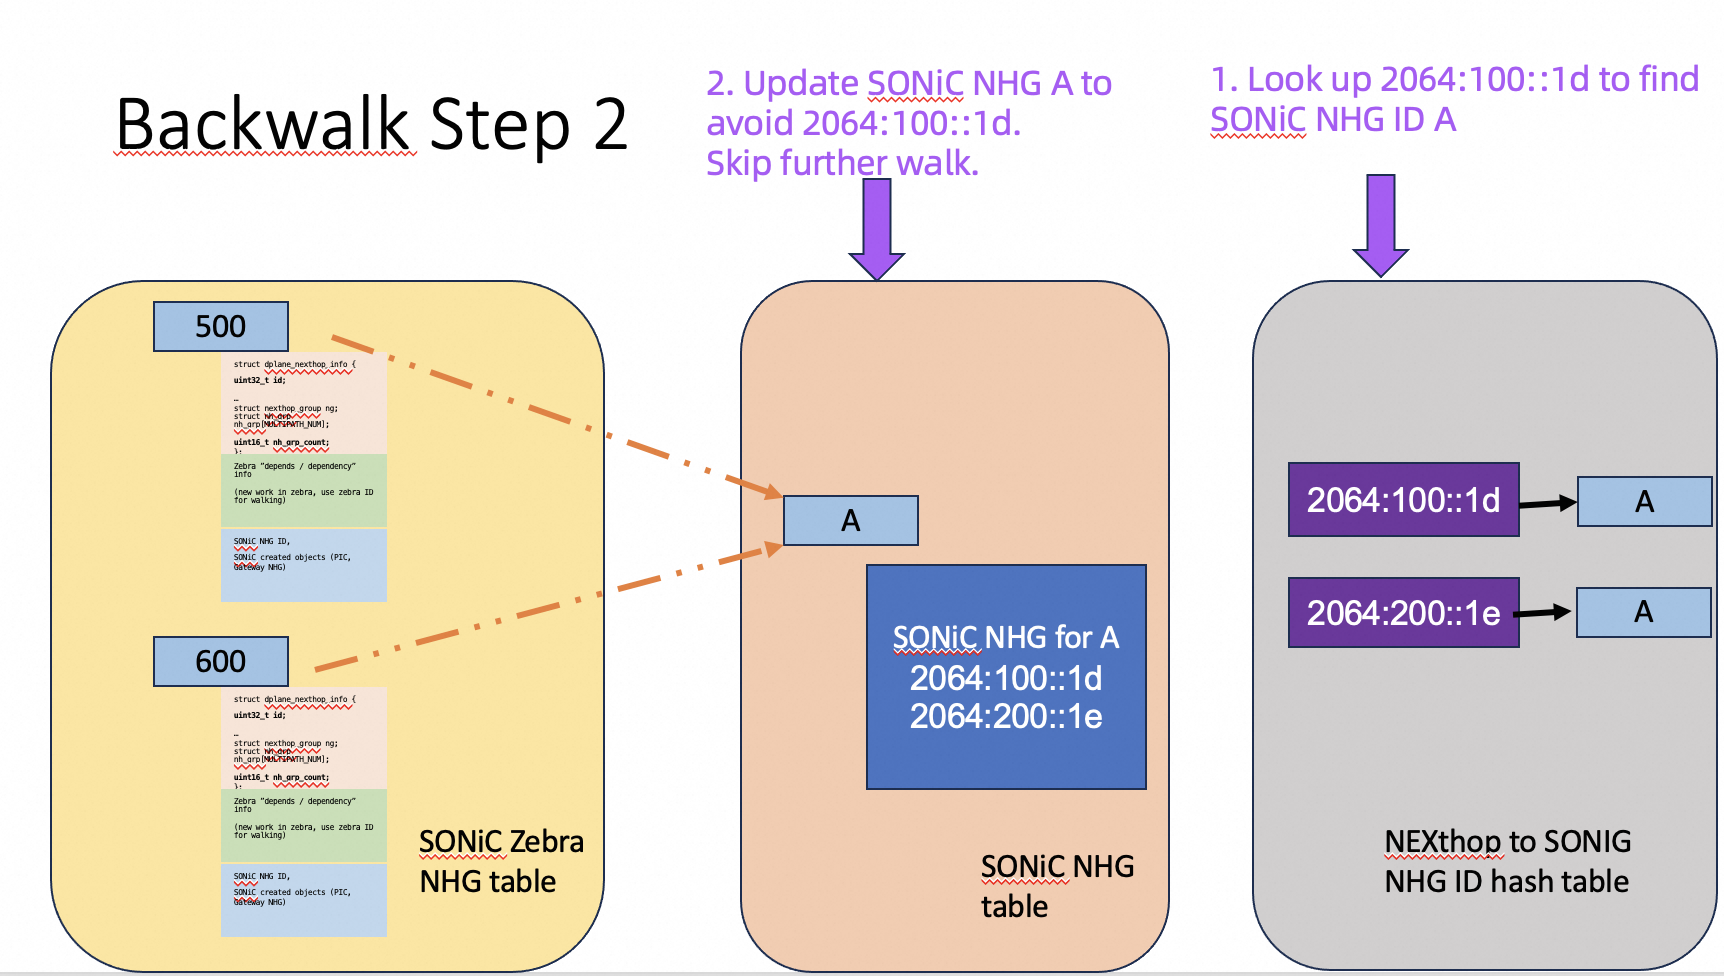
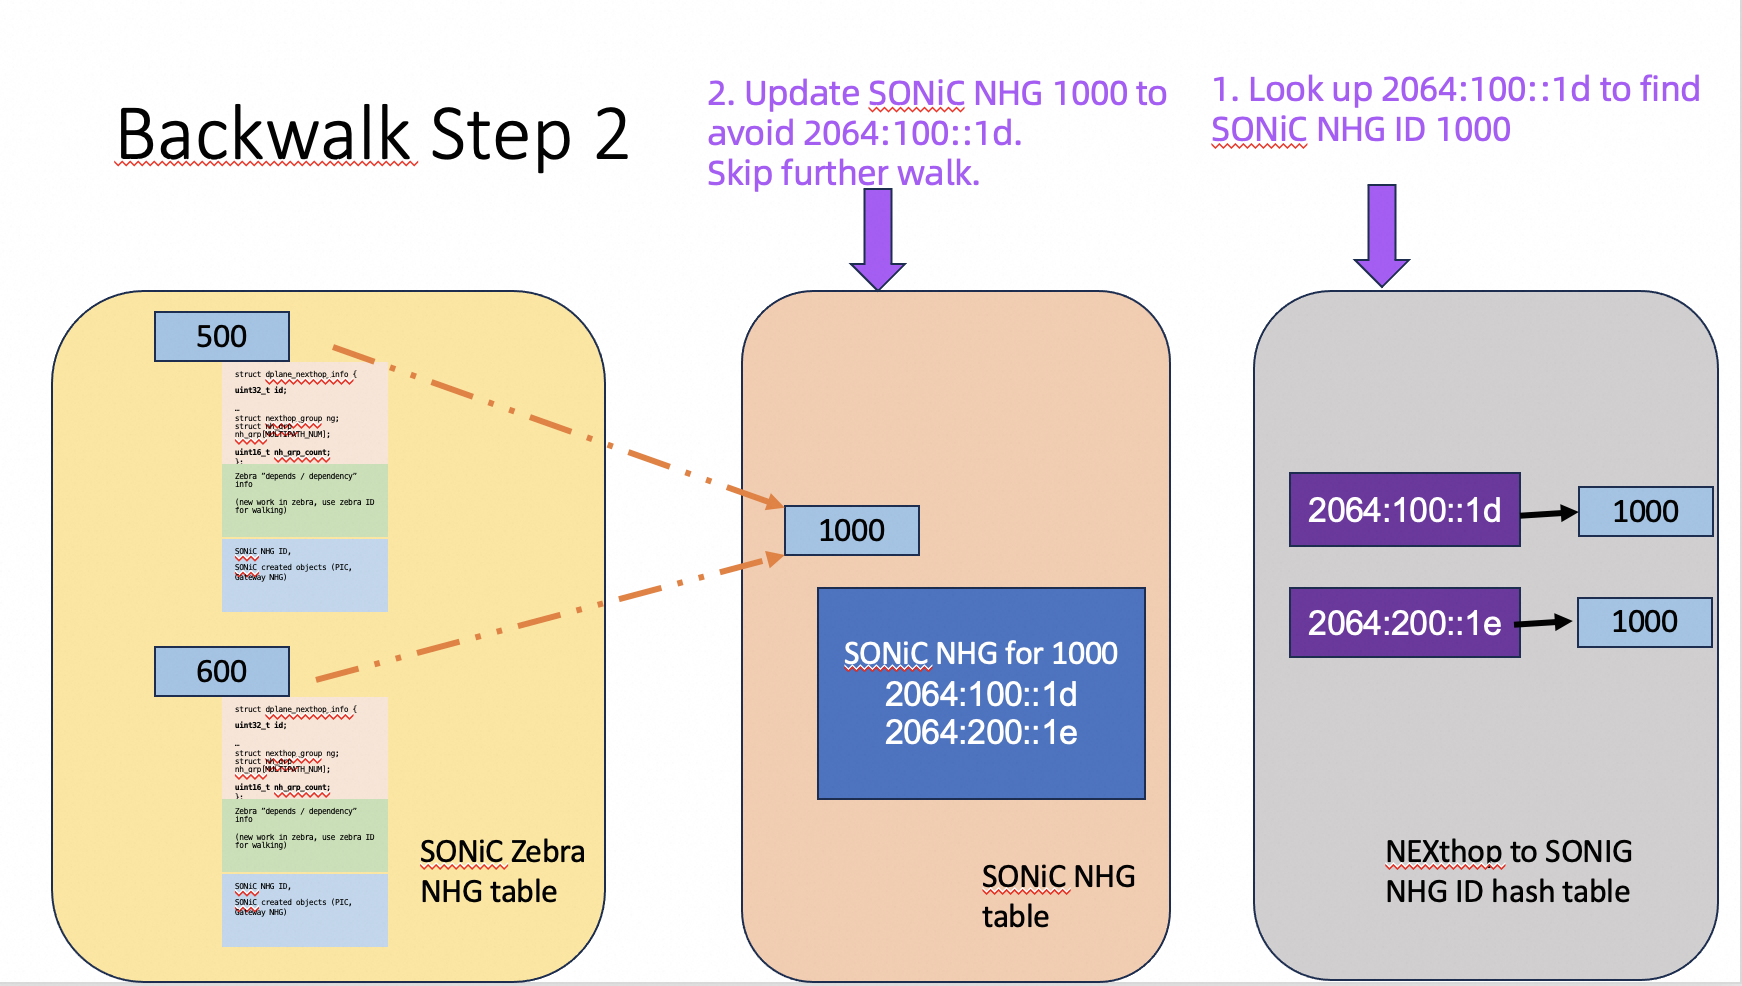
Update ribfib HLD based on comments

diff --git a/doc/ribfib/ribfib.md b/doc/ribfib/ribfib.md
@@ -3,43 +3,48 @@
 # Table of Contents <!-- omit in toc -->
 - [Revision](#revision)
 - [Definition/Abbreviation](#definitionabbreviation)
-    - [Table 1: Abbreviations](#table-1-abbreviations)
 - [Problem Statements](#problem-statements)
   - [Summary of Problems to be solved](#summary-of-problems-to-be-solved)
     - [Enable NHG ID handling for improving route convergence](#enable-nhg-id-handling-for-improving-route-convergence)
     - [Introduce PIC (Prefix independent Convergence) for improving route convergence](#introduce-pic-prefix-independent-convergence-for-improving-route-convergence)
     - [Handling SRv6 VPN forwarding chain different from Linux](#handling-srv6-vpn-forwarding-chain-different-from-linux)
+  - [Current Thoughts](#current-thoughts)
+  - [Topics not in the scope](#topics-not-in-the-scope)
 - [Introduction of RIB / FIB in SONiC](#introduction-of-rib--fib-in-sonic)
+  - [new FIB's functionalities](#new-fibs-functionalities)
   - [FIB's location](#fibs-location)
 - [FIB High Level Design](#fib-high-level-design)
+  - [A global knob to enable/disable FIB](#a-global-knob-to-enabledisable-fib)
   - [Process Model](#process-model)
-  - [NHG Block](#nhg-block)
-    - [Tables in NHG Block](#tables-in-nhg-block)
+  - [FIB Block](#fib-block)
+    - [Tables in FIB Block](#tables-in-fib-block)
     - [SONiC zebra NHG table](#sonic-zebra-nhg-table)
       - [NEXTHOP KEY to Zebra NHG ID mapping](#nexthop-key-to-zebra-nhg-id-mapping)
     - [SONiC NHG table](#sonic-nhg-table)
-      - [NEXTHOP-\>SONIC NHG ID  table](#nexthop-sonic-nhg-id-table)
+      - [NEXTHOP-\>SONIC NHG ID table](#nexthop-sonic-nhg-idtable)
     - [SONIC NHG ID Manager](#sonic-nhg-id-manager)
   - [NHG forwarding chain graph](#nhg-forwarding-chain-graph)
-  - [Resolved NHG and Unresolved NHG](#resolved-nhg-and-unresolved-nhg)
+  - [Resolved NHG and Original NHG](#resolved-nhg-and-original-nhg)
   - [Route handling](#route-handling)
 - [FIB work flows](#fib-work-flows)
   - [Handle Global table routing information](#handle-global-table-routing-information)
   - [Handle SRv6 VPN routing information](#handle-srv6-vpn-routing-information)
-- [Route Congernce Handling](#route-congernce-handling)
+- [Route Convergence Handling](#route-convergence-handling)
+  - [Resolve through and Resolve via](#resolve-through-and-resolve-via)
   - [NHT Trigger](#nht-trigger)
   - [Backwalk infra](#backwalk-infra)
-  - [Walk Context](#walk-context)
-  - [Walk Procedure](#walk-procedure)
-  - [Example of backwalk](#example-of-backwalk)
-    - [Backwalk Step 1](#backwalk-step-1)
-    - [Backwalk Step 2](#backwalk-step-2)
+    - [Walk Context](#walk-context)
+    - [Walk Procedure](#walk-procedure)
+    - [Example of backwalk](#example-of-backwalk)
+      - [Backwalk Step 1](#backwalk-step-1)
+      - [Backwalk Step 2](#backwalk-step-2)
 - [CLI](#cli)
 - [Developing Tasks and Milestones](#developing-tasks-and-milestones)
   - [Tasks in FRR](#tasks-in-frr)
   - [Tasks in SONiC](#tasks-in-sonic)
   - [Testing Strategy](#testing-strategy)
   - [Developing Milestones](#developing-milestones)
+
 
 # Revision
 
@@ -49,12 +54,14 @@
 
 # Definition/Abbreviation
 
-### Table 1: Abbreviations
-
 | ****Term**** | ****Meaning**** |
 | -------- | ----------------------------------------- |
 | RIB | Routing Information Base  |
 | FIB | Forwarding Information Base  |
+| Resolved NHG | NHG resolved by Zebra, a.k.a containing nexthops with final outgoing interfaces and nexthop addresses  |
+| Original NHG | NHG information received by Zebra from protocol clients  |
+| resolve through | |
+| resolve via | |
 
 # Problem Statements
 With the increasing deployment of SONiC-based white-box devices, the demand for new features has grown significantly. This evolution has introduced the need for a RIB/FIB design within SONiC, which is driven by the following two factors.
@@ -66,9 +73,10 @@ The second factor relates to use cases such as SRv6 VPN, where the forwarding ch
 ## Summary of Problems to be solved
 
 ### Enable NHG ID handling for improving route convergence
-NTT's NHGID HLD could be found at  https://github.com/sonic-net/SONiC/blob/master/doc/pic/hld_fpmsyncd.md. The discussion meeting minutes could be found from 1107 meeting minutes https://lists.sonicfoundation.dev/g/sonic-wg-routing/wiki/38030 NHG enhancements.
+NTT's NHGID HLD could be found at  https://github.com/sonic-net/SONiC/blob/master/doc/pic/hld_fpmsyncd.md. The discussion meeting minutes could be found from 1107 meeting minutes https://lists.sonicfoundation.dev/g/sonic-wg-routing/wiki/38030 NHG enhancements. The goal is to enable NHG ID handling for improving route convergence. Current SONiC implementation could only support hard convergence. Both NTT and Broadcom have made some changes towards this goal. Current only one problem left to complete this enhancement is to see how to persist zebra NHG ID mapping to SONiC NHG ID mapping.
 
-Current challenge to complete this work is in how to persist zebra NHG ID mapping to SONiC NHG ID mapping. This topic has been discussed multiple times in routing working group. Here are a list of meeting minutes related to this topic.
+This topic has been discussed multiple times in routing working group. Here are a list of meeting minutes related to this topic.
+
 * 03/07 https://lists.sonicfoundation.dev/g/sonic-wg-routing/wiki/36235 NHD_ID handling approach during warm reboot.
 * 03/14 https://lists.sonicfoundation.dev/g/sonic-wg-routing/wiki/36288 NHD_ID handling approach during warm reboot.
 * 01/16 https://lists.sonicfoundation.dev/g/sonic-wg-routing/wiki/38418 NHG ID persistence discussion for warm reboot.
@@ -77,7 +85,10 @@ Current challenge to complete this work is in how to persist zebra NHG ID mappin
 * 02/27 https://lists.sonicfoundation.dev/g/sonic-wg-routing/wiki/38722 Finalize NHG ID handling in warm reboot. Bug scrub.
 * 03/20  https://lists.sonicfoundation.dev/g/sonic-wg-routing/wiki/39064 NHG ID handling for warm reboot, Broadcom and Alibaba
 
-The current conclusion is to manage the persistence of this mapping table within fpmsyncd, so that unnecessary route events do not trigger redundant hardware programming.
+The current conclusiond from working group discussions are
+* We can't retreat the same NHG ID table from Linux kernel, which leads Zebra can't recover zebra NHG ID mapping table duringwarm reboot.
+* FRR team doesn't want to add addtional complexity to handle it since it is a data plane requirement.
+* We conclude to manage the persistence of this mapping table within fpmsyncd, so that we could avoid unnecessary route events trigger redundant hardware programming.
 
 
 ### Introduce PIC (Prefix independent Convergence) for improving route convergence
@@ -85,50 +96,80 @@ The PIC architecture document could be found at https://github.com/sonic-net/SON
 * 01/18 meeting minutes https://lists.sonicfoundation.dev/g/sonic-wg-routing/wiki/35760 PIC plan is included.
 * BGP PIC HLD could be found at https://github.com/sonic-net/SONiC/pull/1493.
 
-The FRR changes were initially merged via https://github.com/FRRouting/frr/pull/16879, but later reverted due to differing opinions among FRR maintainers. This rollback prompted the need for this HLD. The current challenge is determining how to maintain the PIC forwarding chain.
+The FRR changes were initially merged via https://github.com/FRRouting/frr/pull/16879, but later reverted due to differing opinions among FRR maintainers. The concern from FRR team is that Zebra’s complexity is growing unmanageable.
 
 ### Handling SRv6 VPN forwarding chain different from Linux
-This issue was discussed in routing working group. The meeting minutes could be found at
-* 0522 https://lists.sonicfoundation.dev/g/sonic-wg-routing/wiki/39744 Yuqing from Alibaba discussed the design to handle two different NHG requirements to dplane
+This issue was discussed in the SONiC Routing Working Group. Meeting notes from the May 22 session are available here  https://lists.sonicfoundation.dev/g/sonic-wg-routing/wiki/39744. Yuqing from Alibaba presented a design proposal to address the need for handling two distinct Next Hop Group (NHG) requirements for diferent data plane.
 
-The challenge is how to handle forwarding chain differently among different data planes.
+The following diagram illustrates the differences in the forwarding chains between Linux and SONiC.
+![image](images/different_chains.png)
 
-To address these two main issues and provide future flexibility in managing forwarding chains within SONiC, we propose introducing the RIB/FIB concept.
+Previously, FRR assumed that the Linux forwarding chain would be identical to SONiC’s, and thus provided the same forwarding information to both data planes. However, with SRv6 VPN use cases revealing divergent forwarding behaviors between Linux and SONiC, FRR now faces added complexity in supporting different forwarding chain model for different data planes.
+
+## Current Thoughts
+To resolve these issues and enable greater flexibility for managing SONiC specific forwarding chains going forward, after consultating with the FRR team, we have agreed on a “divide and conquer” approach, separating the Routing Information Base (RIB) and Forwarding Information Base (FIB).
+
+## Topics not in the scope
+The following topics fall outside the scope of this document:
+
+1. The current implementation of fpmsyncd is tightly coupled with FRR, and no design considerations have been made to support alternative integration approaches.
+2. There are no plans to modify the existing SONiC process model.
 
 # Introduction of RIB / FIB in SONiC
 The Routing Information Base (RIB) manages routing information, while the Forwarding Information Base (FIB) translates that information into forwarding entries used by the data plane.
 
 In the current SONiC architecture, the forwarding chain is relatively simple, aligning directly with both the Linux kernel and SONiC’s forwarding chains. As a result, there is no explicit FIB component. Instead, FRR Zebra acts as both the RIB and an implicit FIB. Routing information is converted into SONiC objects within the Zebra thread, while fpmsyncd merely writes these objects into the APPDB.
 
-This model becomes insufficient in more complex scenarios such as SRv6 VPN, where the Linux kernel and SONiC handle forwarding differently. The Linux kernel collapses all forwarding information into a single object, similar to MPLS VPN, optimizing data plane performance. SONiC, however, follows a VXLAN EVPN-like model by introducing a tunnel nexthop, whose resolution occurs at the SDK level.
+This model becomes insufficient in more complex scenarios such as SRv6 VPN, where the Linux kernel and SONiC handle forwarding differently. The Linux kernel collapses all forwarding information into a single object, similar to MPLS VPN case, optimizing for data plane performance. SONiC, however, follows a VXLAN EVPN-like model by introducing a tunnel nexthop. The tunnel nexthop resolution occurs at the SDK level.
 
 The introduction of PIC (Prefix Independent Convergence) further complicates matters, requiring forwarding chains that may differ from routing chains. The FRR community reverted PR #16879 due to concerns that adding this complexity to Zebra would make it harder to serve different data planes.
 
 Given these challenges, the FRR community recommends redefining Zebra to function solely as the RIB, delegating FIB management to each data plane. This allows forwarding chains to be derived and optimized according to the specific requirements of each data plane implementation.
 
-## FIB's location
-The FIB functionality in SONiC can be introduced at two possible points: before APPDB, within fpmsyncd, or after APPDB, within orchagent. Following discussions in the Routing Working Group, the current consensus is to implement FIB functionality in fpmsyncd.
+## new FIB's functionalities
+The new FIB's primary functionalities are:
 
-This approach provides several advantages:
+1. Structuring FIB entries to align with SONiC’s data plane requirements, which are defined by the SAI (Switch Abstraction Interface).
+2. Organizing FIB entries with a focus on efficient route convergence handling.
+
+## FIB's location
+The FIB functionality in SONiC can be introduced at two possible points:
+1. Before APPDB, within fpmsyncd, or
+2. After APPDB, within orchagent.
+
+There are couple rounds disucssions in the Routing Working Group, the current consensus is to implement FIB functionality in fpmsyncd for the following advantages:
 
 * Minimized hardware updates – unnecessary hardware programming can be avoided.
 * Improved performance – eliminates redundant APPDB writes that could otherwise degrade system performance.
 * Consistency of APPDB objects – APPDB continues to store SONiC objects, preserving the current architectural behavior.
 
 # FIB High Level Design
-## Process Model
-Currently, Zebra leverages struct zebra_dplane_ctx to transfer information from the main thread to the FNC thread. The FNC thread then converts Zebra information into SONiC object representations and forwards them to fpmsyncd.
+## A global knob to enable/disable FIB
+Since it is a new design, we need to introduce a global knob to enable/disable FIB. This knob would only be used at device initialization time and not be allowed to modify at run time.
 
+## Process Model
+The following diagram shows the process model between curernt SONiC approach and new FIB approach. FIB block would be added to implement FIB functionalities.
 ![image](images/process_model.png)
 
-Going forward, NHG-related events will be updated so that struct zebra_dplane_ctx is passed directly to fpmsyncd, while the handling of other Zebra object events remains unchanged. Upon receiving such a message, fpmsyncd will invoke functions from the NHG module to translate struct zebra_dplane_ctx into the corresponding SONiC objects. Processing for all other events will continue to follow the existing workflow.
+In current approach, Zebra uses struct zebra_dplane_ctx to transfer information from the main thread to the FNC thread. The FNC thread then converts Zebra information into SONiC object representations and forwards them to fpmsyncd. The following diagram shows information sending from zebra to fpmsyncd. These fields are marked in yellow color.
+![image](images/old_message.png)
 
-In general, the FIB is responsible for handling both NHG and route events. However, since SONiC’s slow path relies on the Linux kernel and does not process route information in fpmsyncd, the SONiC FIB primarily handles NHG events. The code in fpmsyncd responsible for processing Zebra NHG events is referred to as the NHG block.
+Going forward, NHG-related events will be updated so that struct zebra_dplane_ctx is passed directly to fpmsyncd, while the handling of other Zebra object events remains unchanged. The following diagram shows new information sending from zebra to fpmsyncd. These fields are marked in green color.
 
-## NHG Block
-![image](images/NHG_block.png)
+![image](images/new_message.png)
 
-### Tables in NHG Block
+Upon receiving such messages, fpmsyncd will invoke functions from the FIB block to translate struct zebra_dplane_ctx into the corresponding SONiC objects. Processing for all other events will continue to follow the existing workflow.
+
+
+The following diagram shows NHG information stored in fpmsyncd between current approach and new FIB approach.
+![image](images/nhg_comparison.png)
+
+In general, the FIB is responsible for handling both NHG and route events. However, since SONiC’s slow path relies on the Linux kernel and does not process route information in fpmsyncd, the SONiC FIB block primarily handles NHG events. The code in fpmsyncd responsible for processing Zebra NHG events is referred to as the FIB block.
+
+## FIB Block
+![image](images/FIB_block.png)
+
+### Tables in FIB Block
 | Table Names  |   Descriptions    |           Usages           |
 | :-- | :------- | :------------------------ |
 | SONiC zebra NHG table | Map zebra NHG id to received zebra_dplane_ctx + SONIC Context (a.k.a SONIC ZEBRA NHG) | Rely on “dependency” information in zebra_dplane_ctx to build walking chain.|
@@ -137,7 +178,7 @@ In general, the FIB is responsible for handling both NHG and route events. Howev
 | NEXTHOP->SONIC NHG ID  table | NEXTHOP Address to SONiC NHG ID list mapping | Used to trigger back walk for PIC edge. |
 
 ### SONiC zebra NHG table
-The following three NHG events will be handled within the NHG block:
+The following three NHG events will be handled within the FIB block:
 
 * DPLANE_OP_NH_INSTALL
 * DPLANE_OP_NH_UPDATE
@@ -161,7 +202,7 @@ In certain scenarios, it is necessary to create a new SONIC Next Hop Group (NHG)
 
 For the SRv6 VPN use case, NHG messages from Zebra carry not only forwarding information but also additional context, such as the VPN SID or a policy SID list. To handle this, SONiC will create a gateway NHG that contains the forwarding information only. This gateway NHG is also referred to as the PIC NHG. The accompanying context information will be used to construct a PIC Context object in SONiC.
 
-#### NEXTHOP->SONIC NHG ID  table
+#### NEXTHOP->SONIC NHG ID table
 It serves as a helper table for quickly referencing SONiC NHG entries within the SONiC NHG Table.
 
 ### SONIC NHG ID Manager
@@ -229,22 +270,23 @@ Once the resolve-through and resolve-via information is available, the SONiC for
 
 Note that we use dotted lines to represent dependencies because we plan to use ID lookups to identify dependent NHGs rather than pointers. This approach makes the code more robust.
 
-## Resolved NHG and Unresolved NHG
-Unresolved NHG is also known as original NHG. FRR team plans to keep these NHG to provide information coming from protocol clients. In most cases, we use resolved NHG in SONiC. But in SRv6 VPN case, we use unresolved NHG due to SONiC expects tunnel NH to be provided, a.k.a unresolved NHG here.
+## Resolved NHG and Original NHG
+FRR team plans to use original NHG to provide information coming from protocol clients. In most cases, we use resolved NHG in SONiC. But in SRv6 VPN case, we use original NHG due to SONiC expects tunnel NH to be provided, a.k.a original NHG here.
 
 * Global Table case:
     * zebra resolved NHG (flatting one) : SONiC NHG
-    * Zebra unresolved NHG  (original one): not in use
+    * Zebra original NHG  (original one): not in use
 * VXLAN case
     * zebra resolved NHG (flatting one) :  SONiC NHG, (terminating at tunnel interfaces)
-    * Zebra unresolved NHG  (original one): not in use
+    * Zebra original NHG  (original one): not in use
 * SRv6 VPN case
     * Zebra resolved NHG (flatting one) : not in use
-    * Zebra unresolved NHG (original one, terminating at tunnel interface):
+    * Zebra original NHG (original one, terminating at tunnel interface):
         * SONiC PIC CONTEXT OBJ
         * Create gateway NHG in SONiC as PIC NHG for forwarding.
 
-![image](images/unresolved_nhg.png)
+The following diagram shows how the original NHG is mapped to SONiC gateway NHG for SRv6 VPN case.
+![image](images/original_nhg.png)
 
 ## Route handling
 For each route event, we need to use SONiC zebra NHG table to convert zebra NHG ID to SONiC NHG ID.
@@ -257,9 +299,9 @@ Assume  100.0.0.0/24 via 1.1.1.1 and 200.0.0.0/24 via 1.1.1.1. 1.1.1.1/32 via fi
 ![image](images/global_table.png)
 The green section represents the configurations described above.
 
-The grey section shows the Zebra forwarding chain within the RIB. Each prefix points to the unresolved NHG 200, which contains 1.1.1.1 learned from a protocol client. It also points to a resolved NHG, where 1.1.1.1 is marked as a recursive nexthop resolved via 2.2.2.2, 3.3.3.3, and 4.4.4.4.
+The grey section shows the Zebra forwarding chain within the RIB. Each prefix points to the original NHG 200, which contains 1.1.1.1 learned from a protocol client. It also points to a resolved NHG, where 1.1.1.1 is marked as a recursive nexthop resolved via 2.2.2.2, 3.3.3.3, and 4.4.4.4.
 
-The blue section illustrates the SONiC chain created by the FIB (fpmsyncd) based on information received from the RIB. When NHG 100 is received from Zebra, fpmsyncd creates SONiC NHG 400, which contains the three final nexthops 2.2.2.2, 3.3.3.3, and 4.4.4.4. The NHG 200 event is ignored because unresolved NHGs are not used in the global table.
+The blue section illustrates the SONiC chain created by the FIB (fpmsyncd) based on information received from the RIB. When NHG 100 is received from Zebra, fpmsyncd creates SONiC NHG 400, which contains the three final nexthops 2.2.2.2, 3.3.3.3, and 4.4.4.4. The NHG 200 event is ignored because original NHGs are not used in the global table.
 
 When handling the routes 100.0.0.0/24 and 200.0.0.0/24, fpmsyncd maps the Zebra NHG ID 100 to SONiC NHG ID 400 using the SONiC Zebra NHG table. As a result, orchagent only sees SONiC NHG ID 400.
 
@@ -270,13 +312,16 @@ Similar to the above example, except we use v6 address as next hop. Assume vrf f
 
 ![image](images/Srv6_vpn.png)
 
-Similar to the previous example, the green section represents the logical configuration, while the grey section shows the RIB chain. In the SRv6 VPN case, the unresolved NHG 200 is used to create a PIC NHG 400 with 1::1 as the nexthop. A PIC CONTEXT object is also created for VPN SID A. The unresolved NHG 400 then references PIC NHG 400 and creates an additional PIC CONTEXT object for VPN SID B.
+Similar to the previous example, the green section represents the logical configuration, while the grey section shows the RIB chain. In the SRv6 VPN case, the original NHG 200 is used to create a PIC NHG 400 with 1::1 as the nexthop. A PIC CONTEXT object is also created for VPN SID A. The original NHG 400 then references PIC NHG 400 and creates an additional PIC CONTEXT object for VPN SID B.
 
-# Route Congernce Handling
+# Route Convergence Handling
 A key objective of introducing the RIB/FIB model is to enhance route convergence. The design principle is to perform rapid updates on affected NHGs by removing failed paths based on existing NHG information. This mechanism mitigates traffic loss and provides sufficient time for routing protocols to complete reconvergence.
 
+## Resolve through and Resolve via
+We use "**Resolve through** and **Resolve via** to describe the dependency between NHGs. A NHG "A" is resolved through another NHG "B" if the NHG "A" contains a next-hop that is resolved via another NHG "B". NHG "A" is in NHG "B"'s resolve through list. NHG "B" is in NHG "A"'s resolve via list. We use this NHG dependency graph during convergence handling's forward walk and backwalk.
+
 ## NHT Trigger
-The Nexthop Tracker (NHT) is created by Zebra upon receiving information from a protocol client. At present, it only notifies registered protocol clients when a nexthop becomes unreachable. Following discussions with the FRR community, we propose extending NHT to inform the data plane on this event, enabling SONiC to perform rapid fixups that prevent traffic loss.
+The Nexthop Tracker (NHT) is created by Zebra upon receiving information from a protocol client. At present, it only notifies registered protocol clients when a nexthop becomes unreachable. Following discussions with the FRR community, we propose extending NHT to inform the data plane on this event, enabling SONiC to perform rapid fixups that prevent traffic loss. The following display is an example of the NHT display.
 
 ```
 PE3# show ipv6 nht
@@ -300,16 +345,22 @@ The following information would be sent to SONiC via dplane
 * Nexthop address : used in walk spec or for SONiC NHG table walk, a.k.a PIC edge case.
 * Its current resolved NHG ID : this NHG id is used to trigger backwalk update , a.k.a PIC core case.
 
+For example, when the route to 2064:100::1d is withdrawn, the nexthop address 2064:100::1d and its currently resolved Next Hop Group (NHG) ID 243 are sent to SONiC. To minimize traffic disruption, we must quickly update all NHGs that depend on NHG 243 for the specific nexthop 2064:100::1d. In the example above, this means updating NHG 260 and NHG 264, both of which resolve through NHG 243 for 2064:100::1d which needs to be updated during NHT event handling. However, NHG 265 does not rely on 2064:100::1d, so it does not require an update.
+
+This requirement introduces two new concepts: “forward walk” and “backwalk.”
+* A forward walk traverses from one NHG to another based on the “resolved via” relationship. From graph point of view, this is a simple traversal towards child nodes.
+* A backwalk traverses from one NHG to another based on the “resolved through” relationship. From graph point of view, this is a simple traversal toward parent nodes.
+
 ## Backwalk infra
-Upon receiving an NHT trigger, the NHG block initiates a backwalk to update the affected NHGs, applying quick fixups based on current NHG information to minimize traffic loss. FRR will subsequently recalculate the routes and apply the appropriate updates, but the immediate fixups help prevent traffic disruption.
+Upon receiving an NHT trigger, the FIB block initiates a backwalk to update the affected NHGs, applying quick fixups based on current NHG information to minimize traffic loss. FRR will subsequently recalculate the routes and apply the appropriate updates, but the immediate fixups help prevent traffic disruption.
 
 The purpose of the backwalk infrastructure is to provide a generalized mechanism for traversing the NHG database and applying the necessary actions to targeted NHGs.
 
-## Walk Context
-* Walk spec: indicate what we need to do at a given node. Example: Walk from zebra NHG ID 243, update NHGs contains or recursively contains 2064:100::1d as next hop. A forward walk would be used to collect remaining paths from its children.
+### Walk Context
+* Walk spec: indicate what we need to do at a given node. Example: Walk from zebra NHG ID 243, update NHGs contains or recursively contains 2064:100::1d as a next hop. A forward walk would be used to collect remaining paths from its children.
 * Prune spec : indicate if we need to stop the walk at a given node. Example: Stop further walk after gateway NHGs are updated.
 
-## Walk Procedure
+### Walk Procedure
 * Step1: Start from a given zebra NHG ID inSONiC zebra NHG chain, trigger backwalk via its ”dependents list”
     * When visiting each NHG node, use walk spec to determine if we need to update this node and use prune spec to decide if we need to stop further walk.
     * PIC core is handled in this walk.
@@ -317,13 +368,13 @@ The purpose of the backwalk infrastructure is to provide a generalized mechanism
     * PIC edge is handled in this walk.
     * Gateway NHG is a bridge between global table NHGs and the NHGs with contexts.
 
-## Example of backwalk
+### Example of backwalk
 Assume we use the example described before. Once 2064:100::1d's reachability is gone, NHT would inform dplane with 2064:100::1d as impacted nexthop and NHG 243 is resolved NHG for impacted nexthop. Once fpmsyncd receives this information, it would set walk context as the following
 
 * Walk spec : Walk from zebra NHG ID 243, update NHGs contains 2064:100::1d as nexthop
 * Prune spec  : Stop further walk after gateway NHGs are updated for SRv6 use cases.
 
-### Backwalk Step 1
+#### Backwalk Step 1
 Once fpmsyncd starts to trigger a backwalk with above walk context.
 ![image](images/backwalk_1.png)
 The process works as follows:
@@ -336,7 +387,7 @@ The process works as follows:
 
 PIC core cases would be handled in this walk.
 
-### Backwalk Step 2
+#### Backwalk Step 2
 Fpmsyncd uses 2064:100::1d to trigger a lookup in NEXTHOP to SONIG NHG ID hash table. This lookup returns a list of SONiC NHGs which contains 2064:100::1d as its nexthop.
 
 ![image](images/backwalk_2.png)
@@ -353,7 +404,7 @@ TODO: what is the better approach here? Extend vtysh? or create a new one?
 # Developing Tasks and Milestones
 ## Tasks in FRR
 Phase 1: The goal is to enable FIB basic functionalities
-* Add unresolved NHG in zebra_dplane_ctx (For requirement 2)
+* Add original NHG in zebra_dplane_ctx (For requirement 2)
 * Add “resolve through and resolve via” in zebra_dplane_ctx (For requirement 3)
 * Add NHT trigger to dplane ctx (For requirement 3)
 